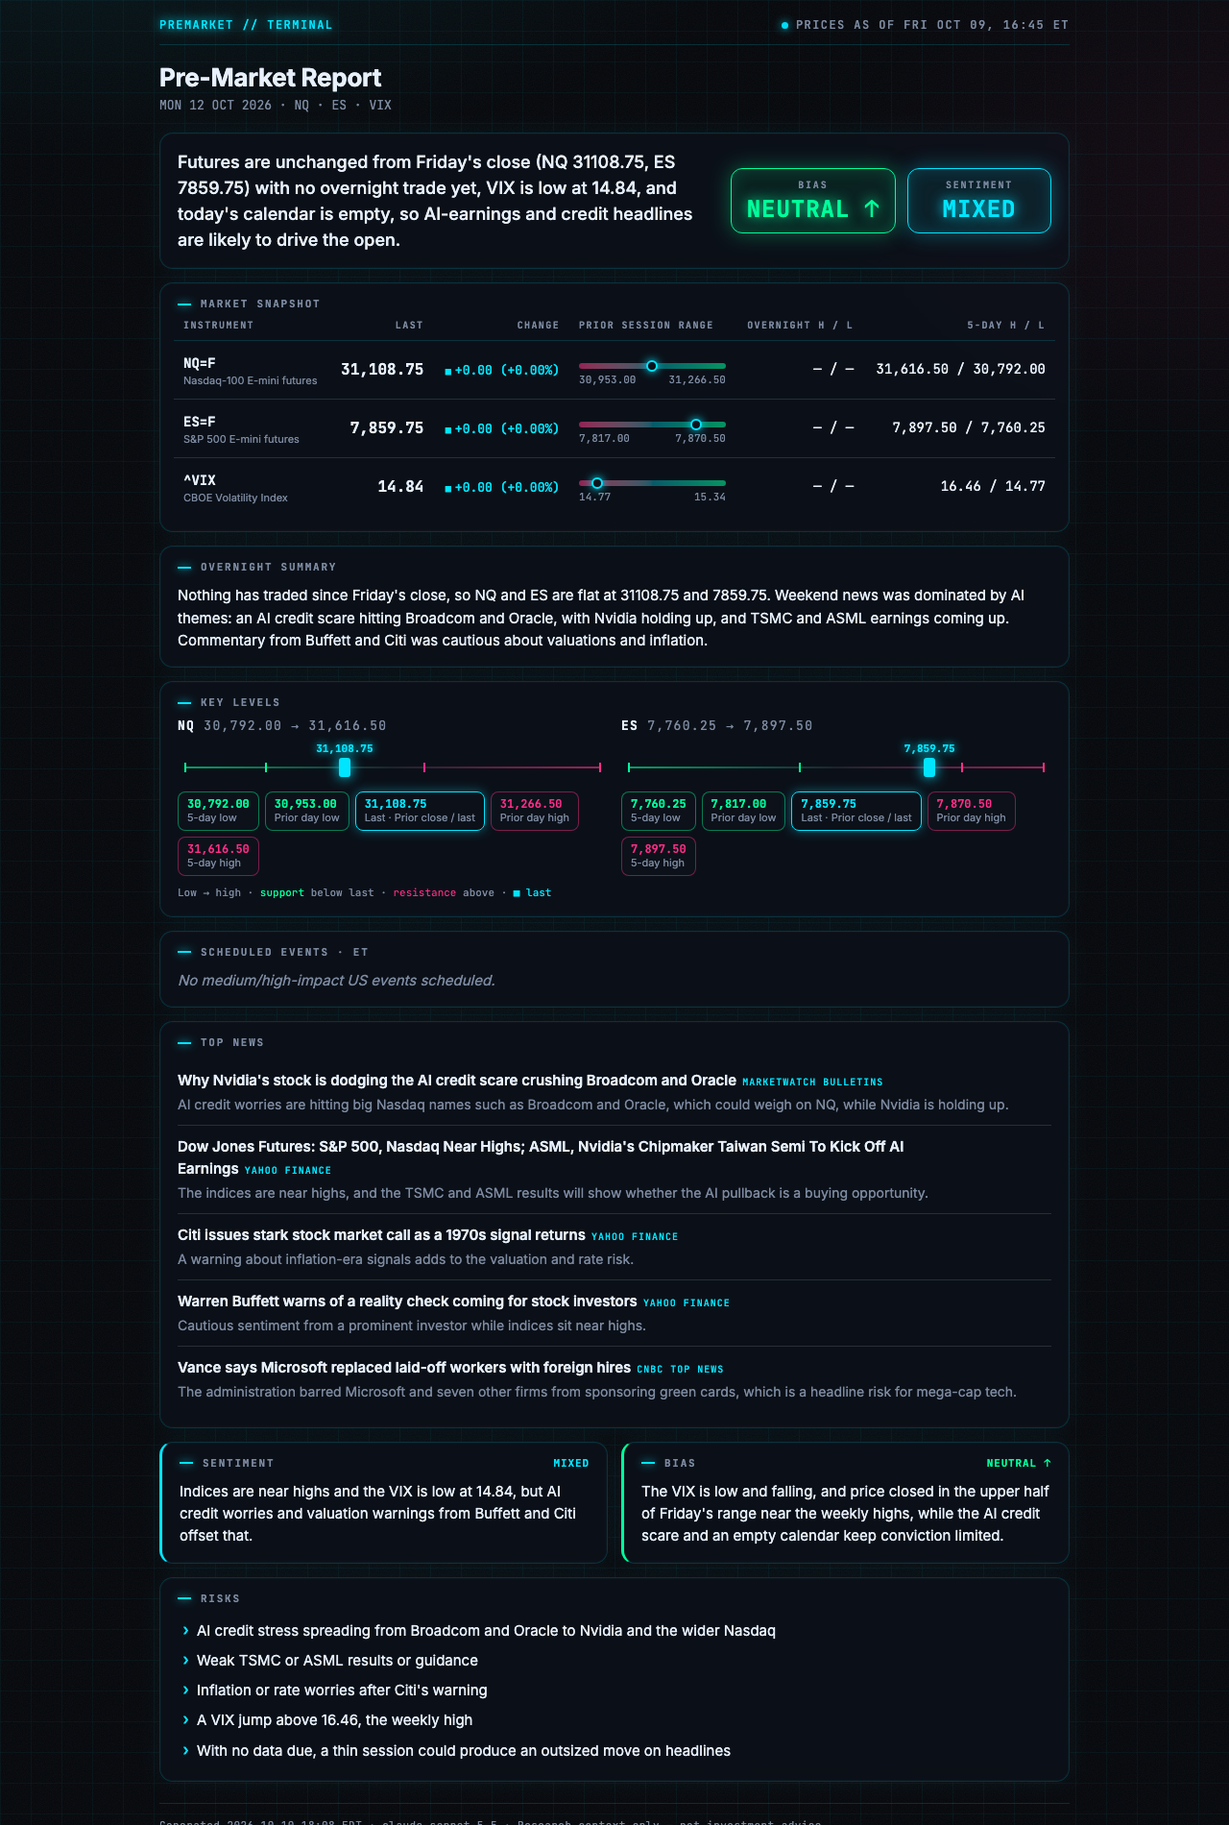
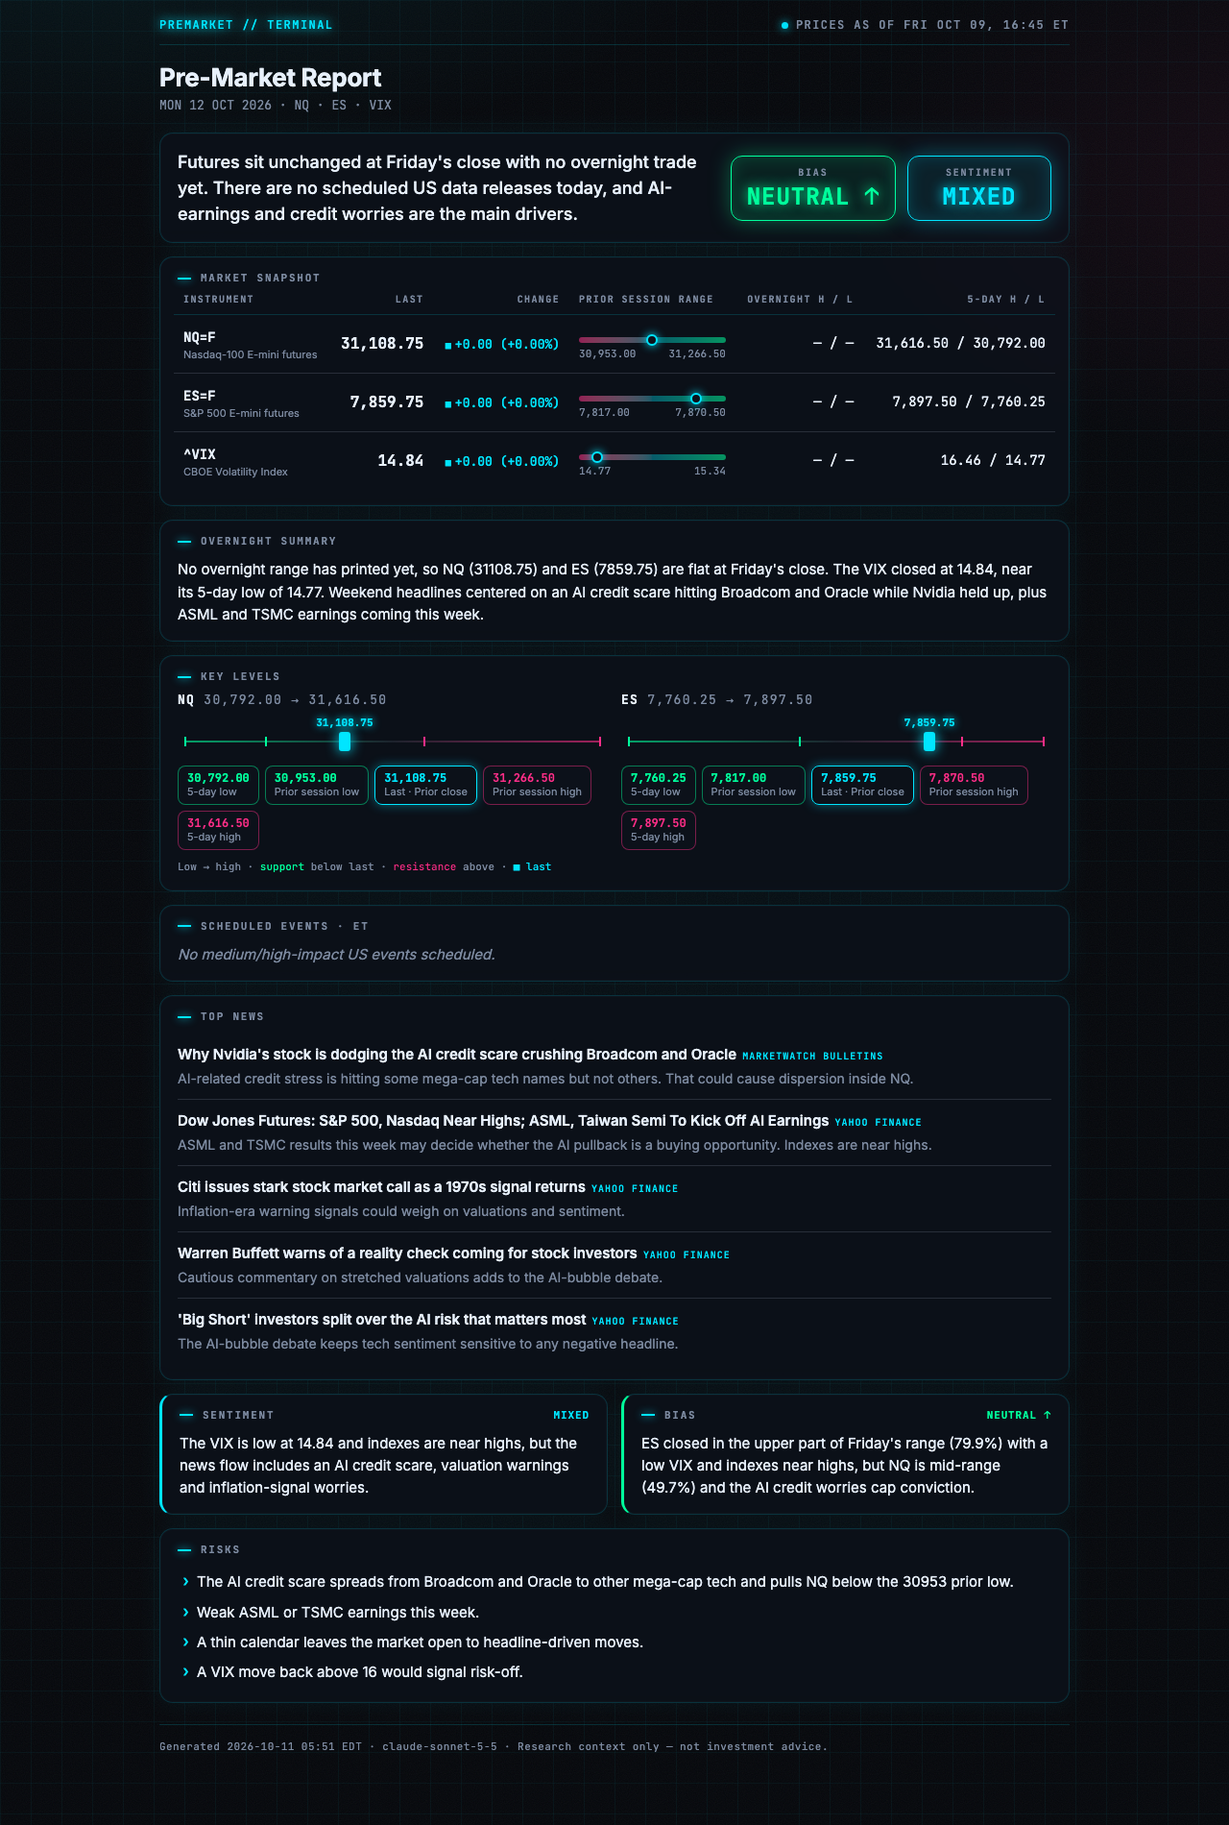
feat: give the agent a computed range position instead of letting it estimate
The example report claimed NQ closed in the upper half of Friday's range;
it was at 49.6%. Snapshots now include range_position_pct (0 = prior low,
100 = prior high, deliberately unclamped so breakouts show as <0 / >100),
the tool description mentions it, and the prompt tells the model to use it
rather than estimate.

Regenerated the example report: the bias rationale now cites ES 79.9% and
NQ 49.7%. 6 new tests (75 total).

diff --git a/reports/2026-10-12/report.html b/reports/2026-10-12/report.html
@@ -243,7 +243,7 @@
   </header>
 
   <section class="panel hero reveal" style="--i: 2">
-    <p class="tldr">Futures are unchanged from Friday&#39;s close (NQ 31108.75, ES 7859.75) with no overnight trade yet, VIX is low at 14.84, and today&#39;s calendar is empty, so AI-earnings and credit headlines are likely to drive the open.</p>
+    <p class="tldr">Futures sit unchanged at Friday&#39;s close with no overnight trade yet. There are no scheduled US data releases today, and AI-earnings and credit worries are the main drivers.</p>
     <div class="badges">
       <div class="badge up">
         <span class="k">BIAS</span>
@@ -305,7 +305,7 @@
 
   <section class="panel reveal" style="--i: 4">
     <h2>Overnight summary</h2>
-    <p>Nothing has traded since Friday&#39;s close, so NQ and ES are flat at 31108.75 and 7859.75. Weekend news was dominated by AI themes: an AI credit scare hitting Broadcom and Oracle, with Nvidia holding up, and TSMC and ASML earnings coming up. Commentary from Buffett and Citi was cautious about valuations and inflation.</p>
+    <p>No overnight range has printed yet, so NQ (31108.75) and ES (7859.75) are flat at Friday&#39;s close. The VIX closed at 14.84, near its 5-day low of 14.77. Weekend headlines centered on an AI credit scare hitting Broadcom and Oracle while Nvidia held up, plus ASML and TSMC earnings coming this week.</p>
   </section>
 
   <section class="panel reveal" style="--i: 5">
@@ -315,16 +315,16 @@
         <h3>NQ <span>30,792.00 → 31,616.50</span></h3>
         <div class="rail">
           <span class="tick down" style="left: 0.0%" title="30,792.00 5-day low"></span>
-          <span class="tick down" style="left: 19.5%" title="30,953.00 Prior day low"></span>
-          <span class="tick now" style="left: 38.4%" data-price="31,108.75" title="31,108.75 Last · Prior close / last"></span>
-          <span class="tick up" style="left: 57.6%" title="31,266.50 Prior day high"></span>
+          <span class="tick down" style="left: 19.5%" title="30,953.00 Prior session low"></span>
+          <span class="tick now" style="left: 38.4%" data-price="31,108.75" title="31,108.75 Last · Prior close"></span>
+          <span class="tick up" style="left: 57.6%" title="31,266.50 Prior session high"></span>
           <span class="tick up" style="left: 100.0%" title="31,616.50 5-day high"></span>
         </div>
         <div class="rungs">
           <span class="rung down"><span class="p">30,792.00</span><span class="l">5-day low</span></span>
-          <span class="rung down"><span class="p">30,953.00</span><span class="l">Prior day low</span></span>
-          <span class="rung now"><span class="p">31,108.75</span><span class="l">Last · Prior close / last</span></span>
-          <span class="rung up"><span class="p">31,266.50</span><span class="l">Prior day high</span></span>
+          <span class="rung down"><span class="p">30,953.00</span><span class="l">Prior session low</span></span>
+          <span class="rung now"><span class="p">31,108.75</span><span class="l">Last · Prior close</span></span>
+          <span class="rung up"><span class="p">31,266.50</span><span class="l">Prior session high</span></span>
           <span class="rung up"><span class="p">31,616.50</span><span class="l">5-day high</span></span>
         </div>
       </div>
@@ -332,16 +332,16 @@
         <h3>ES <span>7,760.25 → 7,897.50</span></h3>
         <div class="rail">
           <span class="tick down" style="left: 0.0%" title="7,760.25 5-day low"></span>
-          <span class="tick down" style="left: 41.3%" title="7,817.00 Prior day low"></span>
-          <span class="tick now" style="left: 72.5%" data-price="7,859.75" title="7,859.75 Last · Prior close / last"></span>
-          <span class="tick up" style="left: 80.3%" title="7,870.50 Prior day high"></span>
+          <span class="tick down" style="left: 41.3%" title="7,817.00 Prior session low"></span>
+          <span class="tick now" style="left: 72.5%" data-price="7,859.75" title="7,859.75 Last · Prior close"></span>
+          <span class="tick up" style="left: 80.3%" title="7,870.50 Prior session high"></span>
           <span class="tick up" style="left: 100.0%" title="7,897.50 5-day high"></span>
         </div>
         <div class="rungs">
           <span class="rung down"><span class="p">7,760.25</span><span class="l">5-day low</span></span>
-          <span class="rung down"><span class="p">7,817.00</span><span class="l">Prior day low</span></span>
-          <span class="rung now"><span class="p">7,859.75</span><span class="l">Last · Prior close / last</span></span>
-          <span class="rung up"><span class="p">7,870.50</span><span class="l">Prior day high</span></span>
+          <span class="rung down"><span class="p">7,817.00</span><span class="l">Prior session low</span></span>
+          <span class="rung now"><span class="p">7,859.75</span><span class="l">Last · Prior close</span></span>
+          <span class="rung up"><span class="p">7,870.50</span><span class="l">Prior session high</span></span>
           <span class="rung up"><span class="p">7,897.50</span><span class="l">5-day high</span></span>
         </div>
       </div>
@@ -357,32 +357,32 @@
   <section class="panel reveal" style="--i: 7">
     <h2>Top news</h2>
     <ul class="news">
-      <li><strong>Why Nvidia&#39;s stock is dodging the AI credit scare crushing Broadcom and Oracle</strong><span class="src">MarketWatch Bulletins</span><p>AI credit worries are hitting big Nasdaq names such as Broadcom and Oracle, which could weigh on NQ, while Nvidia is holding up.</p></li>
-      <li><strong>Dow Jones Futures: S&amp;P 500, Nasdaq Near Highs; ASML, Nvidia&#39;s Chipmaker Taiwan Semi To Kick Off AI Earnings</strong><span class="src">Yahoo Finance</span><p>The indices are near highs, and the TSMC and ASML results will show whether the AI pullback is a buying opportunity.</p></li>
-      <li><strong>Citi issues stark stock market call as a 1970s signal returns</strong><span class="src">Yahoo Finance</span><p>A warning about inflation-era signals adds to the valuation and rate risk.</p></li>
-      <li><strong>Warren Buffett warns of a reality check coming for stock investors</strong><span class="src">Yahoo Finance</span><p>Cautious sentiment from a prominent investor while indices sit near highs.</p></li>
-      <li><strong>Vance says Microsoft replaced laid-off workers with foreign hires</strong><span class="src">CNBC Top News</span><p>The administration barred Microsoft and seven other firms from sponsoring green cards, which is a headline risk for mega-cap tech.</p></li>
+      <li><strong>Why Nvidia&#39;s stock is dodging the AI credit scare crushing Broadcom and Oracle</strong><span class="src">MarketWatch Bulletins</span><p>AI-related credit stress is hitting some mega-cap tech names but not others. That could cause dispersion inside NQ.</p></li>
+      <li><strong>Dow Jones Futures: S&amp;P 500, Nasdaq Near Highs; ASML, Taiwan Semi To Kick Off AI Earnings</strong><span class="src">Yahoo Finance</span><p>ASML and TSMC results this week may decide whether the AI pullback is a buying opportunity. Indexes are near highs.</p></li>
+      <li><strong>Citi issues stark stock market call as a 1970s signal returns</strong><span class="src">Yahoo Finance</span><p>Inflation-era warning signals could weigh on valuations and sentiment.</p></li>
+      <li><strong>Warren Buffett warns of a reality check coming for stock investors</strong><span class="src">Yahoo Finance</span><p>Cautious commentary on stretched valuations adds to the AI-bubble debate.</p></li>
+      <li><strong>&#39;Big Short&#39; investors split over the AI risk that matters most</strong><span class="src">Yahoo Finance</span><p>The AI-bubble debate keeps tech sentiment sensitive to any negative headline.</p></li>
     </ul>
   </section>
 
   <div class="split">
     <section class="panel call call-flat reveal" style="--i: 8">
       <h2>Sentiment <span class="tag flat">MIXED</span></h2>
-      <p>Indices are near highs and the VIX is low at 14.84, but AI credit worries and valuation warnings from Buffett and Citi offset that.</p>
+      <p>The VIX is low at 14.84 and indexes are near highs, but the news flow includes an AI credit scare, valuation warnings and inflation-signal worries.</p>
     </section>
     <section class="panel call call-up reveal" style="--i: 9">
       <h2>Bias <span class="tag up">NEUTRAL ↑</span></h2>
-      <p>The VIX is low and falling, and price closed in the upper half of Friday&#39;s range near the weekly highs, while the AI credit scare and an empty calendar keep conviction limited.</p>
+      <p>ES closed in the upper part of Friday&#39;s range (79.9%) with a low VIX and indexes near highs, but NQ is mid-range (49.7%) and the AI credit worries cap conviction.</p>
     </section>
   </div>
 
   <section class="panel reveal" style="--i: 10">
     <h2>Risks</h2>
-    <ul class="bullets"><li>AI credit stress spreading from Broadcom and Oracle to Nvidia and the wider Nasdaq</li><li>Weak TSMC or ASML results or guidance</li><li>Inflation or rate worries after Citi&#39;s warning</li><li>A VIX jump above 16.46, the weekly high</li><li>With no data due, a thin session could produce an outsized move on headlines</li></ul>
+    <ul class="bullets"><li>The AI credit scare spreads from Broadcom and Oracle to other mega-cap tech and pulls NQ below the 30953 prior low.</li><li>Weak ASML or TSMC earnings this week.</li><li>A thin calendar leaves the market open to headline-driven moves.</li><li>A VIX move back above 16 would signal risk-off.</li></ul>
   </section>
 
 
-  <footer>Generated 2026-10-10 18:08 EDT · claude-sonnet-5-5 · Research context only — not investment advice.</footer>
+  <footer>Generated 2026-10-11 05:51 EDT · claude-sonnet-5-5 · Research context only — not investment advice.</footer>
 </main>
 </body>
 </html>

diff --git a/src/premarket_agent/collectors/prices.py b/src/premarket_agent/collectors/prices.py
@@ -29,6 +29,9 @@ class PriceSnapshot(BaseModel):
     change_pct: float
     prior_high: float
     prior_low: float
+    # Where `last` sits in the prior session's range: 0 = prior low, 100 = prior high.
+    # Not clamped: >100 / <0 means price has broken out of the range.
+    range_position_pct: float | None
     overnight_high: float | None
     overnight_low: float | None
     week_high: float
@@ -64,6 +67,11 @@ def build_snapshot(
     prev_close = float(prior["Close"])
     change = last - prev_close
     week = daily.tail(5)
+    prior_high, prior_low = float(prior["High"]), float(prior["Low"])
+    prior_range = prior_high - prior_low
+    range_position_pct = (
+        round((last - prior_low) / prior_range * 100, 1) if prior_range > 0 else None
+    )
 
     return PriceSnapshot(
         symbol=symbol,
@@ -74,8 +82,9 @@ def build_snapshot(
         prev_close=round(prev_close, 2),
         change=round(change, 2),
         change_pct=round(change / prev_close * 100, 2),
-        prior_high=round(float(prior["High"]), 2),
-        prior_low=round(float(prior["Low"]), 2),
+        prior_high=round(prior_high, 2),
+        prior_low=round(prior_low, 2),
+        range_position_pct=range_position_pct,
         overnight_high=round(float(overnight["High"].max()), 2) if not overnight.empty else None,
         overnight_low=round(float(overnight["Low"].min()), 2) if not overnight.empty else None,
         week_high=round(float(week["High"].max()), 2),

diff --git a/tests/test_prices.py b/tests/test_prices.py
@@ -55,6 +55,24 @@ def test_build_snapshot_monday_includes_weekend_reopen() -> None:
     assert snap.week_high == 112.0
     assert snap.week_low == 95.0
     assert snap.last_bar_time == datetime(2026, 10, 12, 7, 45, tzinfo=NY_TZ)
+    # last 111 vs Friday's range 98..110 -> above the prior high
+    assert snap.range_position_pct == pytest.approx(108.3)
+
+
+@pytest.mark.parametrize(
+    ("last", "expected"),
+    [(98.0, 0.0), (104.0, 50.0), (110.0, 100.0), (95.0, -25.0), (111.5, 112.5)],
+)
+def test_range_position_pct_is_not_clamped(last: float, expected: float) -> None:
+    intraday = _intraday([("2026-10-12 07:45", last, last, last)])
+    snap = prices.build_snapshot("NQ=F", DAILY, intraday, MONDAY_8AM)
+    assert snap.range_position_pct == expected
+
+
+def test_range_position_pct_none_for_flat_range() -> None:
+    flat = _daily([("2026-10-09", 100.0, 100.0, 100.0), ("2026-10-12", 101.0, 99.0, 100.5)])
+    snap = prices.build_snapshot("NQ=F", flat, INTRADAY, MONDAY_8AM)
+    assert snap.range_position_pct is None
 
 
 def test_build_snapshot_no_overnight_bars() -> None:

diff --git a/src/premarket_agent/agent/prompts.py b/src/premarket_agent/agent/prompts.py
@@ -10,6 +10,9 @@ How to work:
 - Use the tools to gather prices, news and the economic calendar. Call independent tools in
   parallel. Do not invent numbers: every price level you cite must come from tool output.
 - Key levels: use the prior-session high/low/close and the overnight high/low for NQ and ES.
+- To describe where price sits in its range, use range_position_pct from the snapshot
+  (0 = prior-session low, 50 = midpoint, 100 = prior-session high; above 100 or below 0
+  means price is outside the range). Do not estimate it yourself.
 - News: keep only headlines that could move US index futures today. Ignore personal finance.
 - Sentiment and bias are your judgment; ground each in specific data you were given.
 - Bias has four values, and "neutral" alone is not allowed:

diff --git a/src/premarket_agent/agent/tools.py b/src/premarket_agent/agent/tools.py
@@ -16,8 +16,9 @@ TOOL_DEFINITIONS: list[dict[str, Any]] = [
     {
         "name": "get_market_snapshot",
         "description": (
-            "Latest price, change vs prior close, prior-session high/low, overnight "
-            "high/low and 5-day range for NQ and ES futures and the VIX."
+            "Latest price, change vs prior close, prior-session high/low, where the price "
+            "sits in that range (range_position_pct), overnight high/low and 5-day range "
+            "for NQ and ES futures and the VIX."
         ),
         "strict": True,
         "input_schema": {

diff --git a/tests/test_render.py b/tests/test_render.py
@@ -28,6 +28,7 @@ NQ = PriceSnapshot(
     change_pct=0.4,
     prior_high=31266.5,
     prior_low=30953.0,
+    range_position_pct=89.8,
     overnight_high=None,
     overnight_low=None,
     week_high=31616.5,

diff --git a/reports/2026-10-12/report.md b/reports/2026-10-12/report.md
@@ -1,6 +1,6 @@
 # Pre-Market Report — Monday, October 12, 2026
 
-> Futures are unchanged from Friday's close (NQ 31108.75, ES 7859.75) with no overnight trade yet, VIX is low at 14.84, and today's calendar is empty, so AI-earnings and credit headlines are likely to drive the open.
+> Futures sit unchanged at Friday's close with no overnight trade yet. There are no scheduled US data releases today, and AI-earnings and credit worries are the main drivers.
 
 **Bias:** NEUTRAL ↑ · **Sentiment:** mixed
 
@@ -14,7 +14,7 @@ _Prices as of Fri Oct 09, 16:45 ET._
 | CBOE Volatility Index (`^VIX`) | 14.84 | +0.00 (+0.00%) | 15.34 / 14.77 | — / — | 16.46 / 14.77 |
 
 ## Overnight summary
-Nothing has traded since Friday's close, so NQ and ES are flat at 31108.75 and 7859.75. Weekend news was dominated by AI themes: an AI credit scare hitting Broadcom and Oracle, with Nvidia holding up, and TSMC and ASML earnings coming up. Commentary from Buffett and Citi was cautious about valuations and inflation.
+No overnight range has printed yet, so NQ (31108.75) and ES (7859.75) are flat at Friday's close. The VIX closed at 14.84, near its 5-day low of 14.77. Weekend headlines centered on an AI credit scare hitting Broadcom and Oracle while Nvidia held up, plus ASML and TSMC earnings coming this week.
 
 ## Key levels
 **NQ** (high → low)
@@ -22,9 +22,9 @@ Nothing has traded since Friday's close, so NQ and ES are flat at 31108.75 and 7
 | Level | Note |
 |---:|---|
 | 31,616.50 | 5-day high |
-| 31,266.50 | Prior day high |
+| 31,266.50 | Prior session high |
 | **31,108.75** | ◀ **Last** |
-| 30,953.00 | Prior day low |
+| 30,953.00 | Prior session low |
 | 30,792.00 | 5-day low |
 
 **ES** (high → low)
@@ -32,9 +32,9 @@ Nothing has traded since Friday's close, so NQ and ES are flat at 31108.75 and 7
 | Level | Note |
 |---:|---|
 | 7,897.50 | 5-day high |
-| 7,870.50 | Prior day high |
+| 7,870.50 | Prior session high |
 | **7,859.75** | ◀ **Last** |
-| 7,817.00 | Prior day low |
+| 7,817.00 | Prior session low |
 | 7,760.25 | 5-day low |
 
 
@@ -42,24 +42,23 @@ Nothing has traded since Friday's close, so NQ and ES are flat at 31108.75 and 7
 _No medium/high-impact US events scheduled._
 
 ## Top news
-- **Why Nvidia's stock is dodging the AI credit scare crushing Broadcom and Oracle** _(MarketWatch Bulletins)_ — AI credit worries are hitting big Nasdaq names such as Broadcom and Oracle, which could weigh on NQ, while Nvidia is holding up.
-- **Dow Jones Futures: S&P 500, Nasdaq Near Highs; ASML, Nvidia's Chipmaker Taiwan Semi To Kick Off AI Earnings** _(Yahoo Finance)_ — The indices are near highs, and the TSMC and ASML results will show whether the AI pullback is a buying opportunity.
-- **Citi issues stark stock market call as a 1970s signal returns** _(Yahoo Finance)_ — A warning about inflation-era signals adds to the valuation and rate risk.
-- **Warren Buffett warns of a reality check coming for stock investors** _(Yahoo Finance)_ — Cautious sentiment from a prominent investor while indices sit near highs.
-- **Vance says Microsoft replaced laid-off workers with foreign hires** _(CNBC Top News)_ — The administration barred Microsoft and seven other firms from sponsoring green cards, which is a headline risk for mega-cap tech.
+- **Why Nvidia's stock is dodging the AI credit scare crushing Broadcom and Oracle** _(MarketWatch Bulletins)_ — AI-related credit stress is hitting some mega-cap tech names but not others. That could cause dispersion inside NQ.
+- **Dow Jones Futures: S&P 500, Nasdaq Near Highs; ASML, Taiwan Semi To Kick Off AI Earnings** _(Yahoo Finance)_ — ASML and TSMC results this week may decide whether the AI pullback is a buying opportunity. Indexes are near highs.
+- **Citi issues stark stock market call as a 1970s signal returns** _(Yahoo Finance)_ — Inflation-era warning signals could weigh on valuations and sentiment.
+- **Warren Buffett warns of a reality check coming for stock investors** _(Yahoo Finance)_ — Cautious commentary on stretched valuations adds to the AI-bubble debate.
+- **'Big Short' investors split over the AI risk that matters most** _(Yahoo Finance)_ — The AI-bubble debate keeps tech sentiment sensitive to any negative headline.
 
 ## Sentiment: mixed
-Indices are near highs and the VIX is low at 14.84, but AI credit worries and valuation warnings from Buffett and Citi offset that.
+The VIX is low at 14.84 and indexes are near highs, but the news flow includes an AI credit scare, valuation warnings and inflation-signal worries.
 
 ## Bias: NEUTRAL ↑
-The VIX is low and falling, and price closed in the upper half of Friday's range near the weekly highs, while the AI credit scare and an empty calendar keep conviction limited.
+ES closed in the upper part of Friday's range (79.9%) with a low VIX and indexes near highs, but NQ is mid-range (49.7%) and the AI credit worries cap conviction.
 
 ## Risks
-- AI credit stress spreading from Broadcom and Oracle to Nvidia and the wider Nasdaq
-- Weak TSMC or ASML results or guidance
-- Inflation or rate worries after Citi's warning
-- A VIX jump above 16.46, the weekly high
-- With no data due, a thin session could produce an outsized move on headlines
+- The AI credit scare spreads from Broadcom and Oracle to other mega-cap tech and pulls NQ below the 30953 prior low.
+- Weak ASML or TSMC earnings this week.
+- A thin calendar leaves the market open to headline-driven moves.
+- A VIX move back above 16 would signal risk-off.
 
 ---
-<sub>Generated 2026-10-10 18:08 EDT by `claude-sonnet-5-5`. Research context only — not investment advice.</sub>
+<sub>Generated 2026-10-11 05:51 EDT by `claude-sonnet-5-5`. Research context only — not investment advice.</sub>
